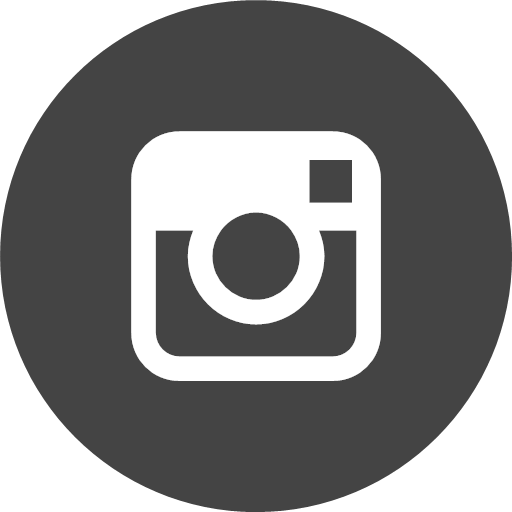
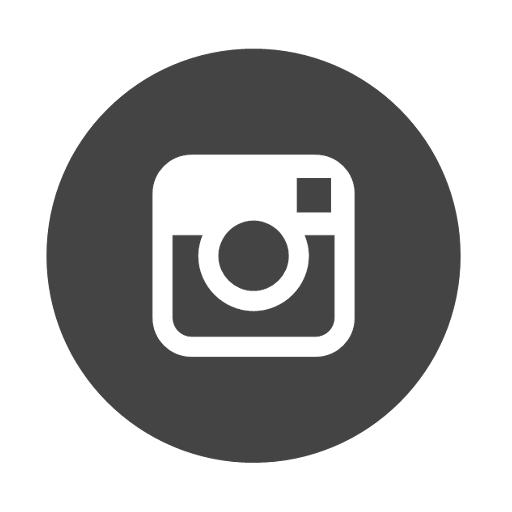
social media buttons

diff --git a/info.html b/info.html
@@ -75,7 +75,12 @@ Yorkies are long-lived and hypoallergenic (the coat is more like human hair than
             </ul>
             </nav>
         </div>
+        <br><br>
         <p>Follow us on social media!</p>
+        <a href="https://www.instagram.com"><img src="Images/instagram.png" alt="instagram" width="65" height="65"></a>
+        <a href="https://www.pinterest.com"><img src="Images/pinterest.png" alt="pinterest" width="65" height="65"></a>
+        <a href="https://www.twitter.com"><img src="Images/twitter.png" alt="twitter" width="65" height="65"></a>
+        <a href="https://www.facebook.com"><img src="Images/facebook.png" alt="facebook" width="65" height="65"></a>
     </footer>
 </body> 
 </html> 

diff --git a/index.html b/index.html
@@ -133,10 +133,12 @@ function showSlides(n) {
             </ul>
             </nav>
         </div>
+        <br><br>
         <p>Follow us on social media!</p>
+        <a href="https://www.instagram.com"><img src="Images/instagram.png" alt="instagram" width="65" height="65"></a>
+        <a href="https://www.pinterest.com"><img src="Images/pinterest.png" alt="pinterest" width="65" height="65"></a>
+        <a href="https://www.twitter.com"><img src="Images/twitter.png" alt="twitter" width="65" height="65"></a>
+        <a href="https://www.facebook.com"><img src="Images/facebook.png" alt="facebook" width="65" height="65"></a>
     </footer>
 </body> 
-</html> 
- 
-
-}
+</html>

diff --git a/about.html b/about.html
@@ -73,7 +73,12 @@
             </ul>
             </nav>
         </div>
+        <br><br>
         <p>Follow us on social media!</p>
+        <a href="https://www.instagram.com"><img src="Images/instagram.png" alt="instagram" width="65" height="65"></a>
+        <a href="https://www.pinterest.com"><img src="Images/pinterest.png" alt="pinterest" width="65" height="65"></a>
+        <a href="https://www.twitter.com"><img src="Images/twitter.png" alt="twitter" width="65" height="65"></a>
+        <a href="https://www.facebook.com"><img src="Images/facebook.png" alt="facebook" width="65" height="65"></a>
     </footer>
 </body> 
 </html> 

diff --git a/available.html b/available.html
@@ -70,7 +70,12 @@
             </ul>
             </nav>
         </div>
+        <br><br>
         <p>Follow us on social media!</p>
+        <a href="https://www.instagram.com"><img src="Images/instagram.png" alt="instagram" width="65" height="65"></a>
+        <a href="https://www.pinterest.com"><img src="Images/pinterest.png" alt="pinterest" width="65" height="65"></a>
+        <a href="https://www.twitter.com"><img src="Images/twitter.png" alt="twitter" width="65" height="65"></a>
+        <a href="https://www.facebook.com"><img src="Images/facebook.png" alt="facebook" width="65" height="65"></a>
     </footer>
 </body> 
 </html> 

diff --git a/contact.html b/contact.html
@@ -70,7 +70,12 @@
             </ul>
             </nav>
         </div>
+        <br><br>
         <p>Follow us on social media!</p>
+        <a href="https://www.instagram.com"><img src="Images/instagram.png" alt="instagram" width="65" height="65"></a>
+        <a href="https://www.pinterest.com"><img src="Images/pinterest.png" alt="pinterest" width="65" height="65"></a>
+        <a href="https://www.twitter.com"><img src="Images/twitter.png" alt="twitter" width="65" height="65"></a>
+        <a href="https://www.facebook.com"><img src="Images/facebook.png" alt="facebook" width="65" height="65"></a>
     </footer>
 </body> 
 </html> 

diff --git a/parents.html b/parents.html
@@ -74,7 +74,12 @@
             </ul>
             </nav>
         </div>
+        <br><br>
         <p>Follow us on social media!</p>
+        <a href="https://www.instagram.com"><img src="Images/instagram.png" alt="instagram" width="65" height="65"></a>
+        <a href="https://www.pinterest.com"><img src="Images/pinterest.png" alt="pinterest" width="65" height="65"></a>
+        <a href="https://www.twitter.com"><img src="Images/twitter.png" alt="twitter" width="65" height="65"></a>
+        <a href="https://www.facebook.com"><img src="Images/facebook.png" alt="facebook" width="65" height="65"></a>
     </footer>
 </body> 
 </html> 

diff --git a/past.html b/past.html
@@ -70,7 +70,12 @@
             </ul>
             </nav>
         </div>
+        <br><br>
         <p>Follow us on social media!</p>
+        <a href="https://www.instagram.com"><img src="Images/instagram.png" alt="instagram" width="65" height="65"></a>
+        <a href="https://www.pinterest.com"><img src="Images/pinterest.png" alt="pinterest" width="65" height="65"></a>
+        <a href="https://www.twitter.com"><img src="Images/twitter.png" alt="twitter" width="65" height="65"></a>
+        <a href="https://www.facebook.com"><img src="Images/facebook.png" alt="facebook" width="65" height="65"></a>
     </footer>
 </body> 
 </html> 

diff --git a/style.css b/style.css
@@ -5,7 +5,7 @@ header
     background-color: #fccbcb;
 }
 
-header img 
+header img
 {
     padding: 0;
     margin: 0 auto;
@@ -21,6 +21,7 @@ body
     margin-bottom: 0px;
     margin-left: 0px;
 }
+
 p 
 {
 margin-right: 45px;
@@ -279,4 +280,10 @@ main img
 @keyframes fade {
   from {opacity: .4}
   to {opacity: 1}
+}
+
+footer img 
+{
+    padding: 0;
+    margin: 0 auto;
 }
